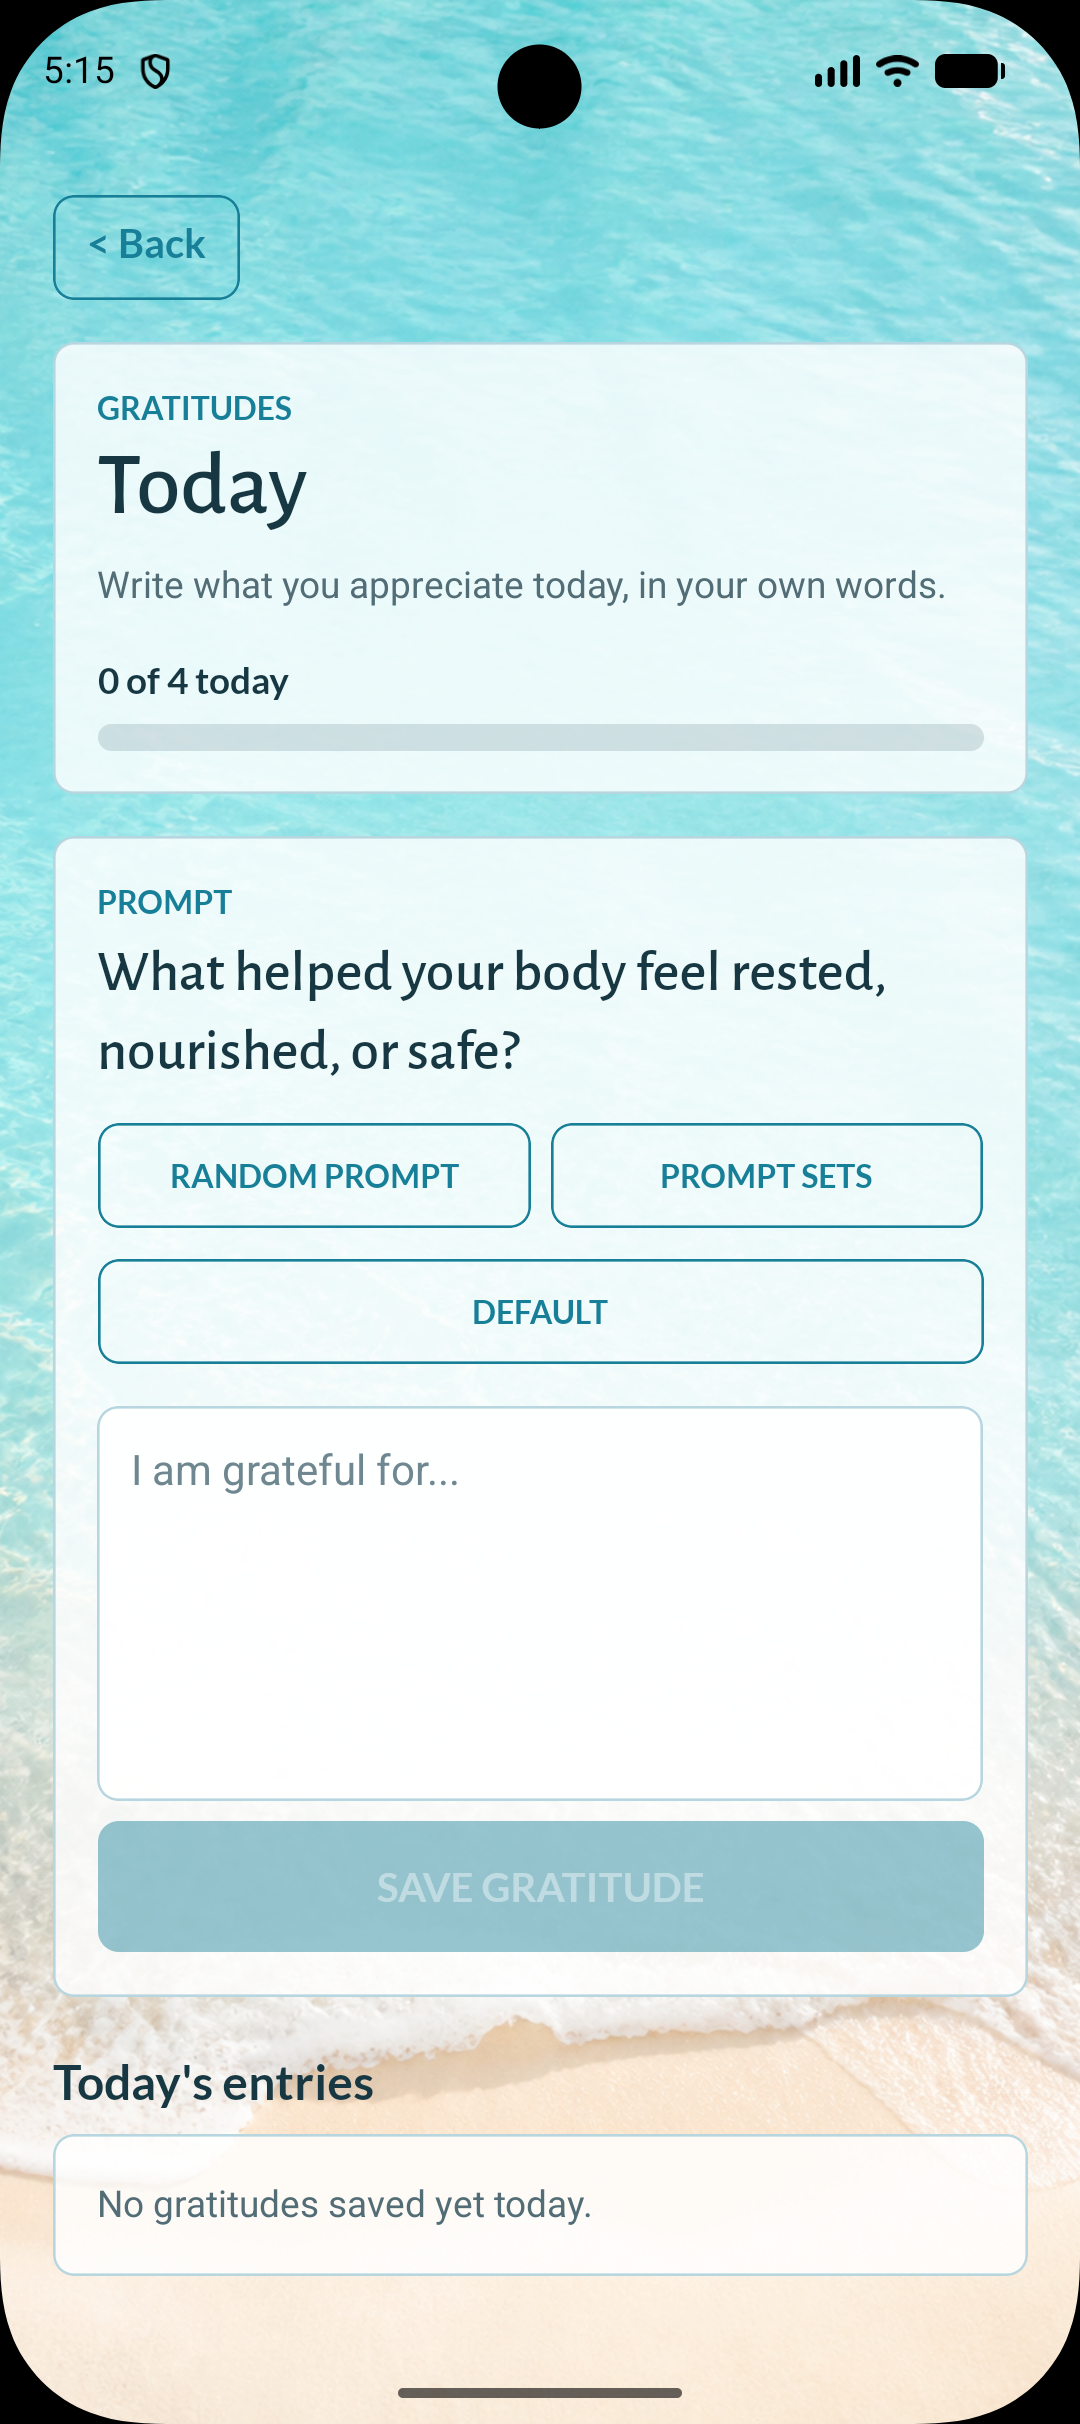
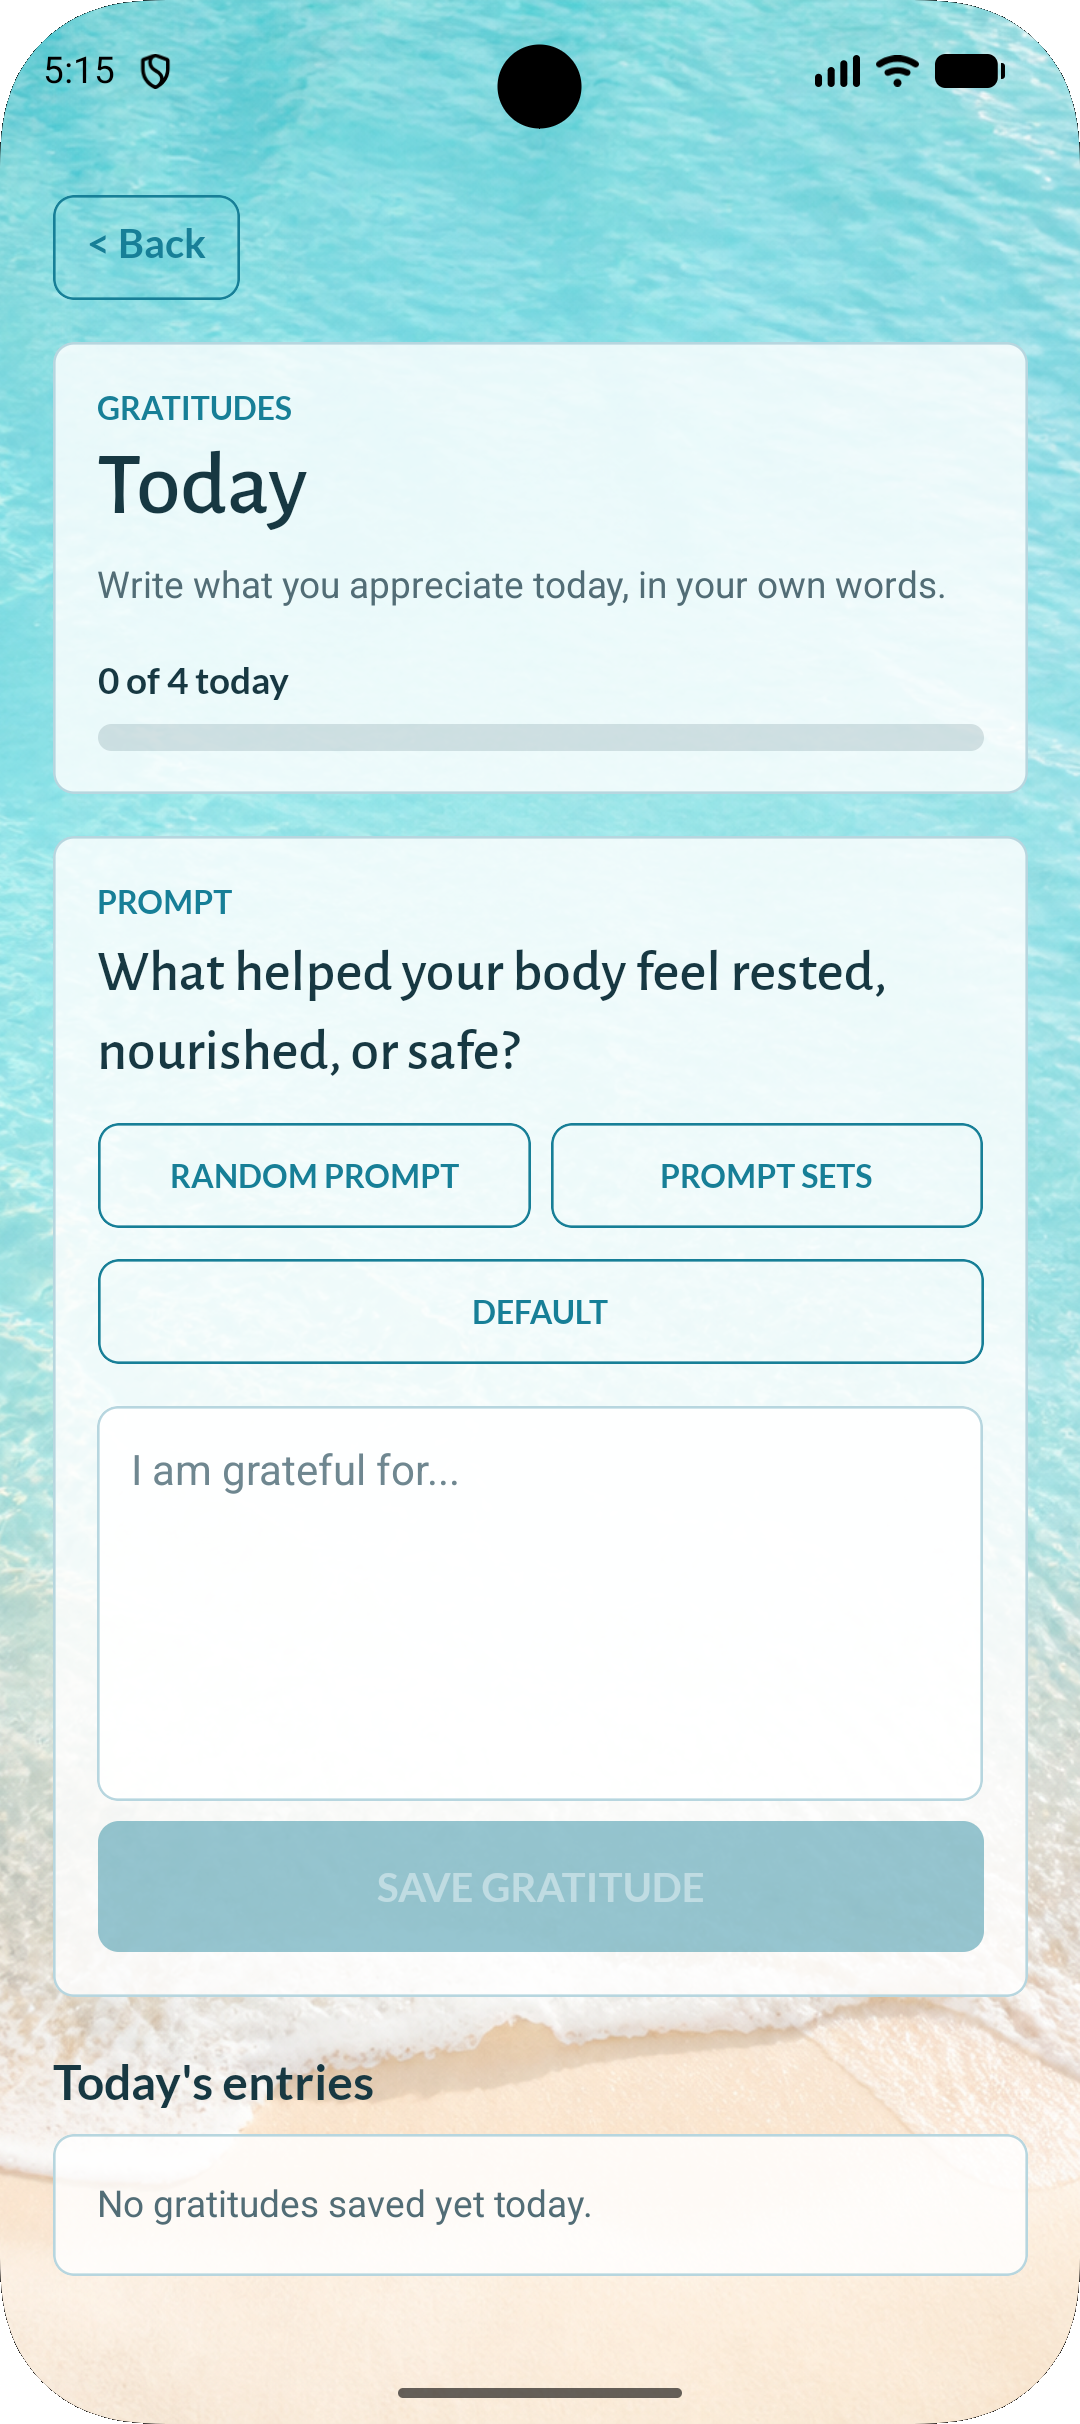
updated screenshots

diff --git a/daily-affirmations/styles.css b/daily-affirmations/styles.css
@@ -231,8 +231,8 @@ li {
 
 .hero-screenshot {
   width: min(235px, 78%);
-  border: 8px solid #213d3b;
-  border-radius: 28px;
+  border-radius: 30px;
+  background: transparent;
   box-shadow: 0 18px 40px rgba(32, 57, 55, 0.2);
 }
 
@@ -308,9 +308,8 @@ li {
   aspect-ratio: 9 / 19.5;
   object-fit: cover;
   object-position: top;
-  border: 1px solid var(--line);
-  border-radius: 8px;
-  background: var(--surface);
+  border-radius: 30px;
+  background: transparent;
   box-shadow: 0 14px 34px rgba(32, 57, 55, 0.12);
 }
 
